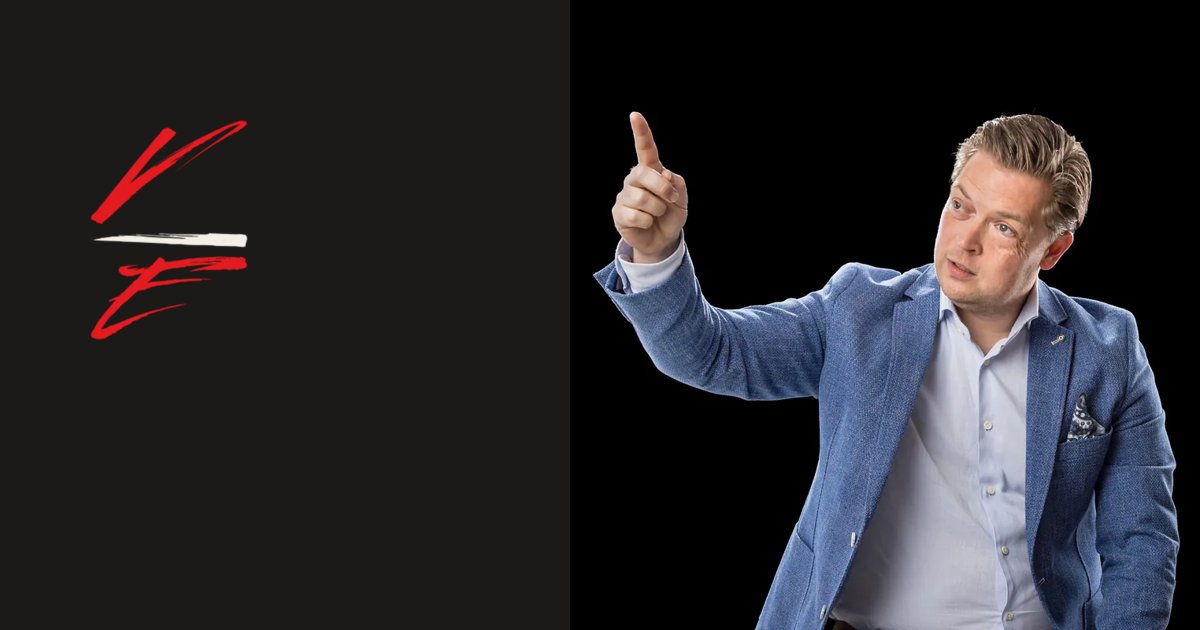
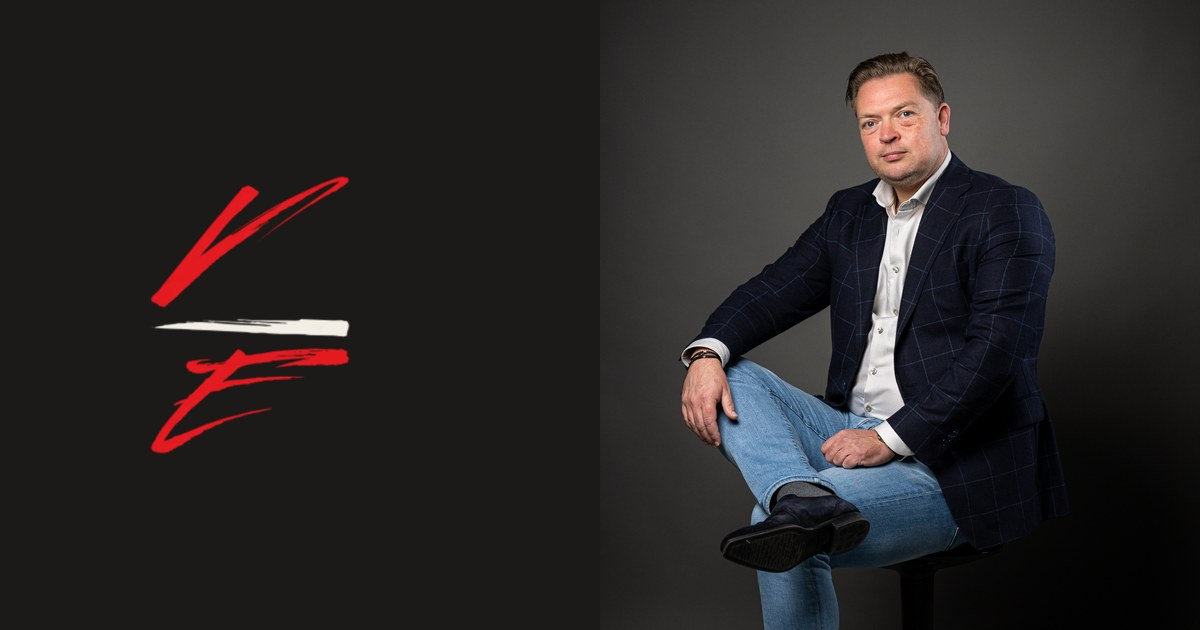
Nieuwe fotografie: alle foto's van Frank vervangen en netjes in de pagina's gezet
Claude-Session: https://claude.ai/code/session_01BuY6G4VZGuVyZ6hyrBvRrX

diff --git a/index.html b/index.html
@@ -23,7 +23,7 @@
 <link rel="apple-touch-icon" href="apple-touch-icon.png">
 <link rel="preload" href="assets/fonts/newsreader-latin-normal.woff2" as="font" type="font/woff2" crossorigin>
 <link rel="preload" href="assets/fonts/hanken-grotesk-latin-normal.woff2" as="font" type="font/woff2" crossorigin>
-<link rel="stylesheet" href="assets/css/styles.css?v=727009cd">
+<link rel="stylesheet" href="assets/css/styles.css?v=0b06caa0">
 <script type="application/ld+json">
 {
   "@context": "https://schema.org",
@@ -172,7 +172,7 @@
         </div>
       </div>
       <div class="hero-media">
-        <img src="assets/images/frank-wijzend-1600.webp" srcset="assets/images/frank-wijzend-800.webp 800w, assets/images/frank-wijzend-1600.webp 1600w" sizes="(max-width: 960px) 90vw, 45vw" width="1600" height="1600" alt="Frank van Engelen in blauw colbert, wijzend naar boven" loading="eager" fetchpriority="high" decoding="async">
+        <img src="assets/images/frank-hero-studio-1600.webp" srcset="assets/images/frank-hero-studio-800.webp 800w, assets/images/frank-hero-studio-1600.webp 1600w" sizes="(max-width: 960px) 90vw, 45vw" width="1600" height="2000" alt="Frank van Engelen in een donkere studio, zittend op een kruk" loading="eager" fetchpriority="high" decoding="async">
       </div>
     </div>
     <div class="proof">
@@ -194,7 +194,7 @@
           </div>
         </div>
         <div class="statement-media" data-reveal>
-          <img src="assets/images/frank-bordjes-1600.webp" srcset="assets/images/frank-bordjes-800.webp 800w, assets/images/frank-bordjes-1600.webp 1600w" sizes="(max-width: 960px) 80vw, 32vw" width="1600" height="1599" alt="Frank van Engelen met drie houten wegwijzers: Management, Advies en Training" loading="lazy" decoding="async">
+          <img src="assets/images/frank-wijzen-bord-1600.webp" srcset="assets/images/frank-wijzen-bord-800.webp 800w, assets/images/frank-wijzen-bord-1600.webp 1600w" sizes="(max-width: 960px) 80vw, 32vw" width="1600" height="2000" alt="Frank van Engelen legt iets uit voor een whiteboard" loading="lazy" decoding="async">
         </div>
       </div>
     </div>
@@ -210,7 +210,7 @@
       <div class="pillars" data-reveal-group>
         <article class="pillar" data-reveal>
           <div class="photo pillar-media">
-            <img src="assets/images/frank-sport-1600.webp" srcset="assets/images/frank-sport-800.webp 800w, assets/images/frank-sport-1600.webp 1600w" sizes="(max-width: 960px) 100vw, 50vw" width="1600" height="2064" alt="Frank van Engelen met een golfclub en een hockeystick" loading="lazy" decoding="async" style="object-position:50% 0%">
+            <img src="assets/images/frank-gesprek-1600.webp" srcset="assets/images/frank-gesprek-800.webp 800w, assets/images/frank-gesprek-1600.webp 1600w" sizes="(max-width: 960px) 100vw, 50vw" width="1600" height="1000" alt="Frank van Engelen in gesprek aan tafel" loading="lazy" decoding="async" style="object-position:50% 0%">
           </div>
           <div class="pillar-body">
             <h3>Commerciële ontwikkeling</h3>
@@ -227,7 +227,7 @@
         </article>
         <article class="pillar" data-reveal>
           <div class="photo pillar-media">
-            <img src="assets/images/frank-jongleren-1600.webp" srcset="assets/images/frank-jongleren-800.webp 800w, assets/images/frank-jongleren-1600.webp 1600w" sizes="(max-width: 960px) 100vw, 50vw" width="1600" height="1599" alt="Frank van Engelen jongleert met vijf rode ballen" loading="lazy" decoding="async" style="object-position:50% 28%">
+            <img src="assets/images/frank-team-bord-1600.webp" srcset="assets/images/frank-team-bord-800.webp 800w, assets/images/frank-team-bord-1600.webp 1600w" sizes="(max-width: 960px) 100vw, 50vw" width="1600" height="1000" alt="Frank van Engelen begeleidt een team bij een whiteboard" loading="lazy" decoding="async" style="object-position:50% 28%">
           </div>
           <div class="pillar-body">
             <h3>Management &amp; leiderschap</h3>
@@ -254,7 +254,7 @@
   <section class="section section--ink on-ink" id="frank">
     <div class="container frank">
       <div class="frank-media" data-reveal>
-        <img src="assets/images/frank-zittend-1600.webp" srcset="assets/images/frank-zittend-800.webp 800w, assets/images/frank-zittend-1600.webp 1600w" sizes="(max-width: 960px) 90vw, 48vw" width="1600" height="1600" alt="Frank van Engelen zittend in blauw colbert, kijkt de camera in" loading="lazy" decoding="async">
+        <img src="assets/images/frank-portret-donker-1600.webp" srcset="assets/images/frank-portret-donker-800.webp 800w, assets/images/frank-portret-donker-1600.webp 1600w" sizes="(max-width: 960px) 90vw, 48vw" width="1600" height="2000" alt="Portret van Frank van Engelen in donker colbert" loading="lazy" decoding="async">
       </div>
       <div class="frank-copy" data-reveal>
         <span class="label">Frank van Engelen</span>
@@ -457,7 +457,7 @@
         </div>
       </div>
       <div class="cta-media">
-        <img src="assets/images/frank-portret-zw-1600.webp" srcset="assets/images/frank-portret-zw-800.webp 800w, assets/images/frank-portret-zw-1600.webp 1600w" sizes="(max-width: 960px) 80vw, 40vw" width="1600" height="2400" alt="Zwart-witportret van Frank van Engelen, lachend" loading="lazy" decoding="async">
+        <img src="assets/images/frank-portret-licht-1600.webp" srcset="assets/images/frank-portret-licht-800.webp 800w, assets/images/frank-portret-licht-1600.webp 1600w" sizes="(max-width: 960px) 80vw, 40vw" width="1600" height="2000" alt="Frank van Engelen, lachend" loading="lazy" decoding="async">
       </div>
     </div>
   </section>
@@ -510,6 +510,6 @@
       <p class="footer-credit">Website gemaakt door <a href="https://studiojapi.nl" target="_blank" rel="noopener">Studio JAPI</a></p>
     </div>
   </footer>
-<script src="assets/js/main.js?v=727009cd" defer></script>
+<script src="assets/js/main.js?v=0b06caa0" defer></script>
 </body>
 </html>

diff --git a/management-leiderschap/index.html b/management-leiderschap/index.html
@@ -23,7 +23,7 @@
 <link rel="apple-touch-icon" href="../apple-touch-icon.png">
 <link rel="preload" href="../assets/fonts/newsreader-latin-normal.woff2" as="font" type="font/woff2" crossorigin>
 <link rel="preload" href="../assets/fonts/hanken-grotesk-latin-normal.woff2" as="font" type="font/woff2" crossorigin>
-<link rel="stylesheet" href="../assets/css/styles.css?v=727009cd">
+<link rel="stylesheet" href="../assets/css/styles.css?v=0b06caa0">
 <script type="application/ld+json">
 {
   "@context": "https://schema.org",
@@ -137,8 +137,8 @@
           <a class="btn btn-ghost" href="../#aanpak">Bekijk de aanpak</a>
         </div>
       </div>
-      <div class="page-hero-media page-hero-media--frame">
-        <img src="../assets/images/frank-jongleren-1600.webp" srcset="../assets/images/frank-jongleren-800.webp 800w, ../assets/images/frank-jongleren-1600.webp 1600w" sizes="(max-width: 960px) 90vw, 38vw" width="1600" height="1599" alt="Frank van Engelen jongleert met vijf rode ballen" loading="eager" fetchpriority="high" decoding="async" style="object-position:50% 32%;aspect-ratio:4/5">
+      <div class="page-hero-media page-hero-media--photo">
+        <img src="../assets/images/frank-training-1600.webp" srcset="../assets/images/frank-training-800.webp 800w, ../assets/images/frank-training-1600.webp 1600w" sizes="(max-width: 960px) 90vw, 38vw" width="1600" height="2000" alt="Frank van Engelen geeft uitleg aan een deelnemer" loading="eager" fetchpriority="high" decoding="async" style="object-position:50% 32%;aspect-ratio:4/5">
       </div>
     </div>
   </section>
@@ -182,7 +182,7 @@
   <section class="section section--ink on-ink">
     <div class="container split">
       <div class="photo" data-reveal>
-        <img src="../assets/images/frank-portret-zw-1600.webp" srcset="../assets/images/frank-portret-zw-800.webp 800w, ../assets/images/frank-portret-zw-1600.webp 1600w" sizes="(max-width: 960px) 90vw, 40vw" width="1600" height="2400" alt="Zwart-witportret van Frank van Engelen, lachend" loading="lazy" decoding="async" style="object-position:50% 25%">
+        <img src="../assets/images/frank-portret-zittend-1600.webp" srcset="../assets/images/frank-portret-zittend-800.webp 800w, ../assets/images/frank-portret-zittend-1600.webp 1600w" sizes="(max-width: 960px) 90vw, 40vw" width="1600" height="2000" alt="Frank van Engelen zittend in blauw overhemd en donker colbert" loading="lazy" decoding="async" style="object-position:50% 25%">
       </div>
       <div data-reveal>
         <span class="label">Zo werken we</span>
@@ -301,6 +301,6 @@
       <p class="footer-credit">Website gemaakt door <a href="https://studiojapi.nl" target="_blank" rel="noopener">Studio JAPI</a></p>
     </div>
   </footer>
-<script src="../assets/js/main.js?v=727009cd" defer></script>
+<script src="../assets/js/main.js?v=0b06caa0" defer></script>
 </body>
 </html>

diff --git a/commerciele-ontwikkeling/index.html b/commerciele-ontwikkeling/index.html
@@ -23,7 +23,7 @@
 <link rel="apple-touch-icon" href="../apple-touch-icon.png">
 <link rel="preload" href="../assets/fonts/newsreader-latin-normal.woff2" as="font" type="font/woff2" crossorigin>
 <link rel="preload" href="../assets/fonts/hanken-grotesk-latin-normal.woff2" as="font" type="font/woff2" crossorigin>
-<link rel="stylesheet" href="../assets/css/styles.css?v=727009cd">
+<link rel="stylesheet" href="../assets/css/styles.css?v=0b06caa0">
 <script type="application/ld+json">
 {
   "@context": "https://schema.org",
@@ -137,8 +137,8 @@
           <a class="btn btn-ghost" href="../#aanpak">Bekijk de aanpak</a>
         </div>
       </div>
-      <div class="page-hero-media page-hero-media--blend">
-        <img src="../assets/images/frank-wijzend-1600.webp" srcset="../assets/images/frank-wijzend-800.webp 800w, ../assets/images/frank-wijzend-1600.webp 1600w" sizes="(max-width: 960px) 90vw, 42vw" width="1600" height="1600" alt="Frank van Engelen in blauw colbert, wijzend naar boven" loading="eager" fetchpriority="high" decoding="async">
+      <div class="page-hero-media page-hero-media--photo">
+        <img src="../assets/images/frank-commercieel-1600.webp" srcset="../assets/images/frank-commercieel-800.webp 800w, ../assets/images/frank-commercieel-1600.webp 1600w" sizes="(max-width: 960px) 90vw, 42vw" width="1600" height="2000" alt="Frank van Engelen in gesprek aan tafel" loading="eager" fetchpriority="high" decoding="async">
       </div>
     </div>
   </section>
@@ -181,7 +181,7 @@
   <section class="section section--ink on-ink">
     <div class="container split split--reverse">
       <div class="split-media--blend" data-reveal>
-        <img src="../assets/images/frank-zittend-2-1600.webp" srcset="../assets/images/frank-zittend-2-800.webp 800w, ../assets/images/frank-zittend-2-1600.webp 1600w" sizes="(max-width: 960px) 90vw, 45vw" width="1600" height="1600" alt="Frank van Engelen zittend, leunend naar voren" loading="lazy" decoding="async">
+        <img src="../assets/images/frank-commercieel-2-1600.webp" srcset="../assets/images/frank-commercieel-2-800.webp 800w, ../assets/images/frank-commercieel-2-1600.webp 1600w" sizes="(max-width: 960px) 90vw, 45vw" width="1600" height="2000" alt="Frank van Engelen aan tafel, kijkt de camera in" loading="lazy" decoding="async">
       </div>
       <div data-reveal>
         <span class="label">Zo werkt het</span>
@@ -301,6 +301,6 @@
       <p class="footer-credit">Website gemaakt door <a href="https://studiojapi.nl" target="_blank" rel="noopener">Studio JAPI</a></p>
     </div>
   </footer>
-<script src="../assets/js/main.js?v=727009cd" defer></script>
+<script src="../assets/js/main.js?v=0b06caa0" defer></script>
 </body>
 </html>

diff --git a/over-ons/index.html b/over-ons/index.html
@@ -23,7 +23,7 @@
 <link rel="apple-touch-icon" href="../apple-touch-icon.png">
 <link rel="preload" href="../assets/fonts/newsreader-latin-normal.woff2" as="font" type="font/woff2" crossorigin>
 <link rel="preload" href="../assets/fonts/hanken-grotesk-latin-normal.woff2" as="font" type="font/woff2" crossorigin>
-<link rel="stylesheet" href="../assets/css/styles.css?v=727009cd">
+<link rel="stylesheet" href="../assets/css/styles.css?v=0b06caa0">
 <script type="application/ld+json">
 {
   "@context": "https://schema.org",
@@ -124,8 +124,8 @@
           <a class="btn btn-primary" href="../contact/">Kennismaken met Frank</a>
         </div>
       </div>
-      <div class="page-hero-media page-hero-media--blend">
-        <img src="../assets/images/frank-zittend-2-1600.webp" srcset="../assets/images/frank-zittend-2-800.webp 800w, ../assets/images/frank-zittend-2-1600.webp 1600w" sizes="(max-width: 960px) 90vw, 42vw" width="1600" height="1600" alt="Frank van Engelen zittend, leunend naar voren" loading="eager" fetchpriority="high" decoding="async">
+      <div class="page-hero-media page-hero-media--photo">
+        <img src="../assets/images/frank-over-frank-1600.webp" srcset="../assets/images/frank-over-frank-800.webp 800w, ../assets/images/frank-over-frank-1600.webp 1600w" sizes="(max-width: 960px) 90vw, 42vw" width="1600" height="2000" alt="Portret van Frank van Engelen" loading="eager" fetchpriority="high" decoding="async">
       </div>
     </div>
   </section>
@@ -133,7 +133,7 @@
   <section class="section section--sand">
     <div class="container split split--media-last">
       <div class="split-media--cutout" data-reveal>
-        <img src="../assets/images/frank-sport-1600.webp" srcset="../assets/images/frank-sport-800.webp 800w, ../assets/images/frank-sport-1600.webp 1600w" sizes="(max-width: 960px) 70vw, 36vw" width="1600" height="2064" alt="Frank van Engelen met een golfclub en een hockeystick" loading="lazy" decoding="async">
+        <img src="../assets/images/frank-trap-1600.webp" srcset="../assets/images/frank-trap-800.webp 800w, ../assets/images/frank-trap-1600.webp 1600w" sizes="(max-width: 960px) 70vw, 36vw" width="1600" height="2000" alt="Frank van Engelen in een trappenhuis, leunend op de trapleuning" loading="lazy" decoding="async">
       </div>
       <div data-reveal>
         <span class="label">Over Frank</span>
@@ -254,6 +254,6 @@
       <p class="footer-credit">Website gemaakt door <a href="https://studiojapi.nl" target="_blank" rel="noopener">Studio JAPI</a></p>
     </div>
   </footer>
-<script src="../assets/js/main.js?v=727009cd" defer></script>
+<script src="../assets/js/main.js?v=0b06caa0" defer></script>
 </body>
 </html>

diff --git a/contact/index.html b/contact/index.html
@@ -23,7 +23,7 @@
 <link rel="apple-touch-icon" href="../apple-touch-icon.png">
 <link rel="preload" href="../assets/fonts/newsreader-latin-normal.woff2" as="font" type="font/woff2" crossorigin>
 <link rel="preload" href="../assets/fonts/hanken-grotesk-latin-normal.woff2" as="font" type="font/woff2" crossorigin>
-<link rel="stylesheet" href="../assets/css/styles.css?v=727009cd">
+<link rel="stylesheet" href="../assets/css/styles.css?v=0b06caa0">
 <script type="application/ld+json">
 {
   "@context": "https://schema.org",
@@ -118,8 +118,8 @@
         <h1>Laten we kennismaken.</h1>
         <p class="lead">Een persoonlijk gesprek met Frank over waar uw team of organisatie tegenaan loopt. Vrijblijvend, en zonder standaardverhaal.</p>
       </div>
-      <div class="page-hero-media page-hero-media--blend">
-        <img src="../assets/images/frank-portret-zw-1600.webp" srcset="../assets/images/frank-portret-zw-800.webp 800w, ../assets/images/frank-portret-zw-1600.webp 1600w" sizes="(max-width: 960px) 70vw, 34vw" width="1600" height="2400" alt="Zwart-witportret van Frank van Engelen, lachend" loading="eager" fetchpriority="high" decoding="async">
+      <div class="page-hero-media page-hero-media--photo">
+        <img src="../assets/images/frank-contact-1600.webp" srcset="../assets/images/frank-contact-800.webp 800w, ../assets/images/frank-contact-1600.webp 1600w" sizes="(max-width: 960px) 70vw, 34vw" width="1600" height="2000" alt="Frank van Engelen, lachend" loading="eager" fetchpriority="high" decoding="async">
       </div>
     </div>
   </section>
@@ -236,6 +236,6 @@
       <p class="footer-credit">Website gemaakt door <a href="https://studiojapi.nl" target="_blank" rel="noopener">Studio JAPI</a></p>
     </div>
   </footer>
-<script src="../assets/js/main.js?v=727009cd" defer></script>
+<script src="../assets/js/main.js?v=0b06caa0" defer></script>
 </body>
 </html>

diff --git a/assets/css/styles.css b/assets/css/styles.css
@@ -824,3 +824,26 @@ h3.slide-title { font-size: clamp(1.9rem, 3.2vw, 2.9rem); line-height: 1.05; let
 .footer-credit { margin-top: 14px; font-size: 0.8rem; opacity: 0.95; }
 .footer-credit a { text-decoration: underline; text-underline-offset: 3px; transition: color 0.2s var(--ease); }
 .footer-credit a:hover { color: var(--on-ink); }
+
+/* ==========================================================================
+   Nieuwe fotografie: gewone foto's in een rustige lijst (geen blend-modes)
+   ========================================================================== */
+.hero-media, .statement-media, .frank-media, .cta-media, .page-hero-media, .split-media--blend, .split-media--cutout { align-self: center; }
+.hero-media img, .statement-media img, .frank-media img, .cta-media img,
+.page-hero-media img, .split-media--blend img, .split-media--cutout img {
+  mix-blend-mode: normal; width: 100%; height: auto; aspect-ratio: 4 / 5; object-fit: cover;
+  border-radius: var(--radius); box-shadow: 0 40px 80px -42px rgba(0,0,0,0.65);
+}
+.hero-media { margin-right: 0; padding-block: clamp(32px, 4vw, 56px); max-width: 450px; justify-self: end; width: 100%; }
+.hero-media img { aspect-ratio: 4 / 5; }
+.page-hero-media { padding-block: clamp(32px, 5vw, 72px); max-width: 460px; justify-self: end; width: 100%; }
+.page-hero-media--photo img { aspect-ratio: 4 / 5; }
+.statement-media img { box-shadow: 0 30px 60px -40px rgba(0,0,0,0.45); }
+.frank-media, .cta-media { max-width: 480px; width: 100%; }
+.cta-media { padding-block: clamp(32px, 5vw, 64px); }
+.split-media--cutout img, .split-media--blend img { box-shadow: 0 30px 60px -40px rgba(0,0,0,0.5); }
+.pillar-media img { object-position: 50% 40%; }
+@media (max-width: 960px) {
+  .hero-media, .page-hero-media { justify-self: center; max-width: 440px; padding-top: 8px; }
+  .page-hero-media { margin-inline: auto; }
+}

diff --git a/interim-management/index.html b/interim-management/index.html
@@ -23,7 +23,7 @@
 <link rel="apple-touch-icon" href="../apple-touch-icon.png">
 <link rel="preload" href="../assets/fonts/newsreader-latin-normal.woff2" as="font" type="font/woff2" crossorigin>
 <link rel="preload" href="../assets/fonts/hanken-grotesk-latin-normal.woff2" as="font" type="font/woff2" crossorigin>
-<link rel="stylesheet" href="../assets/css/styles.css?v=727009cd">
+<link rel="stylesheet" href="../assets/css/styles.css?v=0b06caa0">
 <script type="application/ld+json">
 {
   "@context": "https://schema.org",
@@ -136,8 +136,8 @@
           <a class="btn btn-primary" href="../contact/">Bespreek uw situatie</a>
         </div>
       </div>
-      <div class="page-hero-media page-hero-media--blend page-hero-media--big">
-        <img src="../assets/images/frank-multitasker-1600.webp" srcset="../assets/images/frank-multitasker-800.webp 800w, ../assets/images/frank-multitasker-1600.webp 1600w" sizes="(max-width: 960px) 90vw, 42vw" width="1600" height="1168" alt="Frank van Engelen met telefoons, een moersleutel, een boormachine en een kop koffie in zijn handen" loading="eager" fetchpriority="high" decoding="async">
+      <div class="page-hero-media page-hero-media--photo">
+        <img src="../assets/images/frank-gang-1600.webp" srcset="../assets/images/frank-gang-800.webp 800w, ../assets/images/frank-gang-1600.webp 1600w" sizes="(max-width: 960px) 90vw, 42vw" width="1600" height="2000" alt="Frank van Engelen loopt door een kantoorgang" loading="eager" fetchpriority="high" decoding="async">
       </div>
     </div>
   </section>
@@ -259,6 +259,6 @@
       <p class="footer-credit">Website gemaakt door <a href="https://studiojapi.nl" target="_blank" rel="noopener">Studio JAPI</a></p>
     </div>
   </footer>
-<script src="../assets/js/main.js?v=727009cd" defer></script>
+<script src="../assets/js/main.js?v=0b06caa0" defer></script>
 </body>
 </html>

diff --git a/advies/index.html b/advies/index.html
@@ -23,7 +23,7 @@
 <link rel="apple-touch-icon" href="../apple-touch-icon.png">
 <link rel="preload" href="../assets/fonts/newsreader-latin-normal.woff2" as="font" type="font/woff2" crossorigin>
 <link rel="preload" href="../assets/fonts/hanken-grotesk-latin-normal.woff2" as="font" type="font/woff2" crossorigin>
-<link rel="stylesheet" href="../assets/css/styles.css?v=727009cd">
+<link rel="stylesheet" href="../assets/css/styles.css?v=0b06caa0">
 <script type="application/ld+json">
 {
   "@context": "https://schema.org",
@@ -136,8 +136,8 @@
           <a class="btn btn-primary" href="../contact/">Bespreek uw vraagstuk</a>
         </div>
       </div>
-      <div class="page-hero-media page-hero-media--blend">
-        <img src="../assets/images/frank-zittend-1600.webp" srcset="../assets/images/frank-zittend-800.webp 800w, ../assets/images/frank-zittend-1600.webp 1600w" sizes="(max-width: 960px) 90vw, 42vw" width="1600" height="1600" alt="Frank van Engelen zittend in blauw colbert, kijkt de camera in" loading="eager" fetchpriority="high" decoding="async">
+      <div class="page-hero-media page-hero-media--photo">
+        <img src="../assets/images/frank-advies-1600.webp" srcset="../assets/images/frank-advies-800.webp 800w, ../assets/images/frank-advies-1600.webp 1600w" sizes="(max-width: 960px) 90vw, 42vw" width="1600" height="2000" alt="Frank van Engelen zittend op een kruk in de studio" loading="eager" fetchpriority="high" decoding="async">
       </div>
     </div>
   </section>
@@ -258,6 +258,6 @@
       <p class="footer-credit">Website gemaakt door <a href="https://studiojapi.nl" target="_blank" rel="noopener">Studio JAPI</a></p>
     </div>
   </footer>
-<script src="../assets/js/main.js?v=727009cd" defer></script>
+<script src="../assets/js/main.js?v=0b06caa0" defer></script>
 </body>
 </html>

diff --git a/bedankt/index.html b/bedankt/index.html
@@ -23,7 +23,7 @@
 <link rel="apple-touch-icon" href="../apple-touch-icon.png">
 <link rel="preload" href="../assets/fonts/newsreader-latin-normal.woff2" as="font" type="font/woff2" crossorigin>
 <link rel="preload" href="../assets/fonts/hanken-grotesk-latin-normal.woff2" as="font" type="font/woff2" crossorigin>
-<link rel="stylesheet" href="../assets/css/styles.css?v=727009cd">
+<link rel="stylesheet" href="../assets/css/styles.css?v=0b06caa0">
 <meta name="robots" content="noindex, follow">
 </head>
 <body class="no-js">
@@ -86,7 +86,7 @@
         </div>
       </div>
       <div class="page-hero-media page-hero-media--blend">
-        <img src="../assets/images/frank-zittend-1600.webp" srcset="../assets/images/frank-zittend-800.webp 800w, ../assets/images/frank-zittend-1600.webp 1600w" sizes="(max-width: 960px) 80vw, 40vw" width="1600" height="1600" alt="Frank van Engelen zittend in blauw colbert" loading="eager" fetchpriority="high" decoding="async">
+        <img src="../assets/images/frank-portret-donker-1600.webp" srcset="../assets/images/frank-portret-donker-800.webp 800w, ../assets/images/frank-portret-donker-1600.webp 1600w" sizes="(max-width: 960px) 80vw, 40vw" width="1600" height="2000" alt="Portret van Frank van Engelen in donker colbert" loading="eager" fetchpriority="high" decoding="async">
       </div>
     </div>
   </section>
@@ -139,6 +139,6 @@
       <p class="footer-credit">Website gemaakt door <a href="https://studiojapi.nl" target="_blank" rel="noopener">Studio JAPI</a></p>
     </div>
   </footer>
-<script src="../assets/js/main.js?v=727009cd" defer></script>
+<script src="../assets/js/main.js?v=0b06caa0" defer></script>
 </body>
 </html>

diff --git a/privacy/index.html b/privacy/index.html
@@ -23,7 +23,7 @@
 <link rel="apple-touch-icon" href="../apple-touch-icon.png">
 <link rel="preload" href="../assets/fonts/newsreader-latin-normal.woff2" as="font" type="font/woff2" crossorigin>
 <link rel="preload" href="../assets/fonts/hanken-grotesk-latin-normal.woff2" as="font" type="font/woff2" crossorigin>
-<link rel="stylesheet" href="../assets/css/styles.css?v=727009cd">
+<link rel="stylesheet" href="../assets/css/styles.css?v=0b06caa0">
 </head>
 <body class="no-js">
   <a class="skip-link" href="#main">Direct naar inhoud</a>
@@ -291,6 +291,6 @@
       <p class="footer-credit">Website gemaakt door <a href="https://studiojapi.nl" target="_blank" rel="noopener">Studio JAPI</a></p>
     </div>
   </footer>
-<script src="../assets/js/main.js?v=727009cd" defer></script>
+<script src="../assets/js/main.js?v=0b06caa0" defer></script>
 </body>
 </html>

diff --git a/algemene-voorwaarden/index.html b/algemene-voorwaarden/index.html
@@ -23,7 +23,7 @@
 <link rel="apple-touch-icon" href="../apple-touch-icon.png">
 <link rel="preload" href="../assets/fonts/newsreader-latin-normal.woff2" as="font" type="font/woff2" crossorigin>
 <link rel="preload" href="../assets/fonts/hanken-grotesk-latin-normal.woff2" as="font" type="font/woff2" crossorigin>
-<link rel="stylesheet" href="../assets/css/styles.css?v=727009cd">
+<link rel="stylesheet" href="../assets/css/styles.css?v=0b06caa0">
 <script type="application/ld+json">
 {
   "@context": "https://schema.org",
@@ -398,6 +398,6 @@
       <p class="footer-credit">Website gemaakt door <a href="https://studiojapi.nl" target="_blank" rel="noopener">Studio JAPI</a></p>
     </div>
   </footer>
-<script src="../assets/js/main.js?v=727009cd" defer></script>
+<script src="../assets/js/main.js?v=0b06caa0" defer></script>
 </body>
 </html>

diff --git a/cases/index.html b/cases/index.html
@@ -23,7 +23,7 @@
 <link rel="apple-touch-icon" href="../apple-touch-icon.png">
 <link rel="preload" href="../assets/fonts/newsreader-latin-normal.woff2" as="font" type="font/woff2" crossorigin>
 <link rel="preload" href="../assets/fonts/hanken-grotesk-latin-normal.woff2" as="font" type="font/woff2" crossorigin>
-<link rel="stylesheet" href="../assets/css/styles.css?v=727009cd">
+<link rel="stylesheet" href="../assets/css/styles.css?v=0b06caa0">
 <script type="application/ld+json">
 {
   "@context": "https://schema.org",
@@ -318,6 +318,6 @@
       <p class="footer-credit">Website gemaakt door <a href="https://studiojapi.nl" target="_blank" rel="noopener">Studio JAPI</a></p>
     </div>
   </footer>
-<script src="../assets/js/main.js?v=727009cd" defer></script>
+<script src="../assets/js/main.js?v=0b06caa0" defer></script>
 </body>
 </html>
